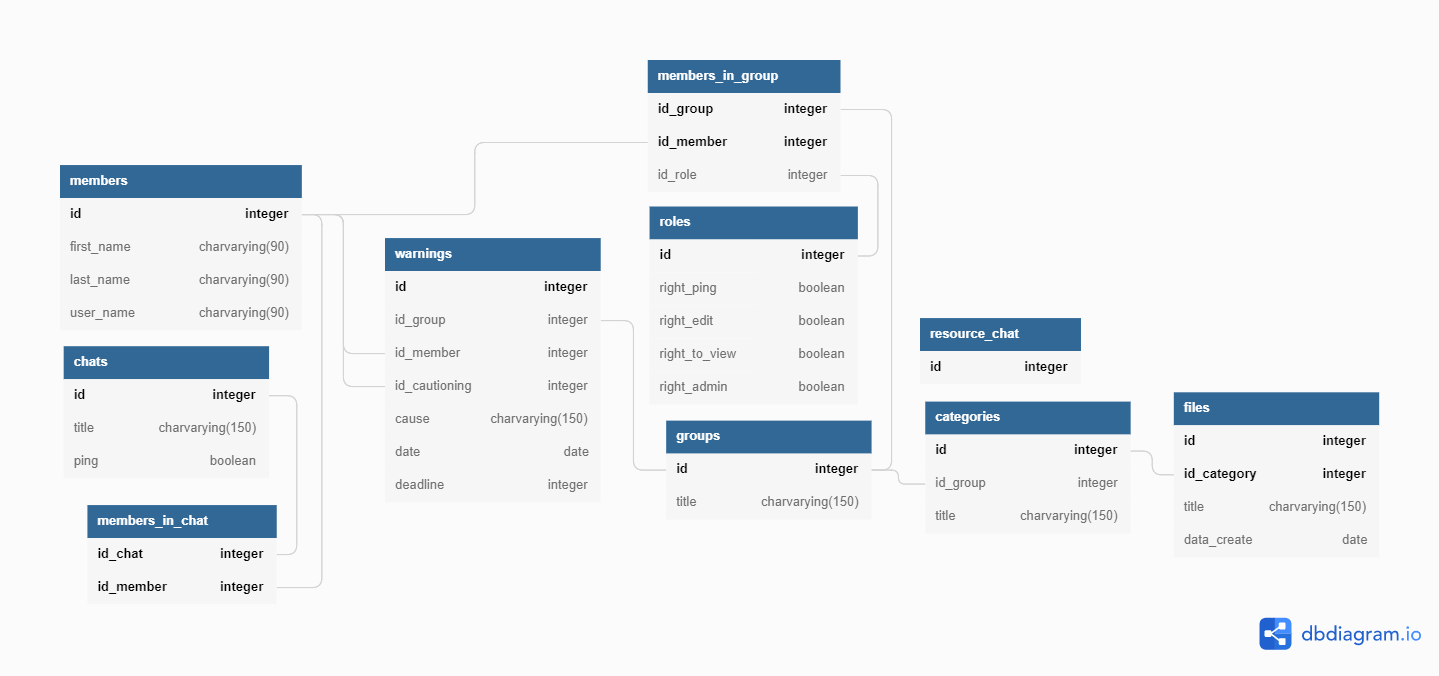
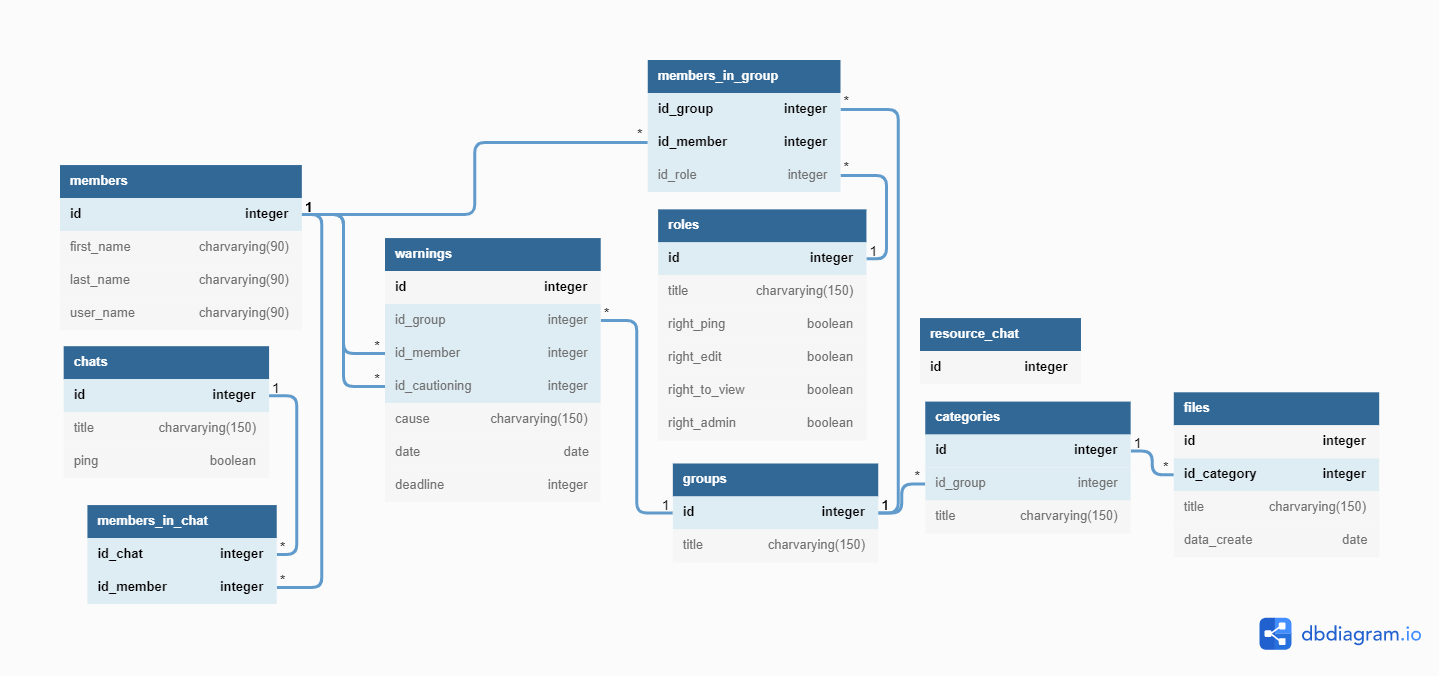
Update role (+title)

diff --git a/src/main/java/repository/dao/GroupDao.java b/src/main/java/repository/dao/GroupDao.java
@@ -18,10 +18,11 @@ public class GroupDao {
         try {
             return Role.builder()
                     .id(resultSet.getInt(1))
-                    .right_ping(resultSet.getBoolean(2))
-                    .right_edit(resultSet.getBoolean(3))
-                    .right_to_view(resultSet.getBoolean(4))
-                    .right_admin(resultSet.getBoolean(5))
+                    .title(resultSet.getString(2))
+                    .right_ping(resultSet.getBoolean(3))
+                    .right_edit(resultSet.getBoolean(4))
+                    .right_to_view(resultSet.getBoolean(5))
+                    .right_admin(resultSet.getBoolean(6))
                     .build();
         } catch (SQLException e) {
             LOGGER.error("Role creation error");
@@ -339,7 +340,7 @@ public class GroupDao {
         ArrayList<Member> result = new ArrayList<>();
         String SQL = """
                 SELECT members.id, first_name, last_name, user_name,
-                id_role, right_to_view, right_ping, right_edit, right_admin,
+                id_role, title, right_to_view, right_ping, right_edit, right_admin,
                     (select count(id)
                     from warnings
                     where members.id = warnings.id_member

diff --git a/src/main/java/repository/dao/MemberDao.java b/src/main/java/repository/dao/MemberDao.java
@@ -40,12 +40,13 @@ public class MemberDao {
                     .user_name(resultSet.getString(4))
                     .role(Role.builder()
                             .id(resultSet.getInt(5))
-                            .right_to_view(resultSet.getBoolean(6))
-                            .right_ping(resultSet.getBoolean(7))
-                            .right_edit(resultSet.getBoolean(8))
-                            .right_admin(resultSet.getBoolean(9))
+                            .title(resultSet.getString(6))
+                            .right_to_view(resultSet.getBoolean(7))
+                            .right_ping(resultSet.getBoolean(8))
+                            .right_edit(resultSet.getBoolean(9))
+                            .right_admin(resultSet.getBoolean(10))
                             .build())
-                    .number_of_warning(resultSet.getInt(10))
+                    .number_of_warning(resultSet.getInt(11))
                     .build();
         }
         catch (SQLException e){

diff --git a/src/main/java/repository/dao/RoleDao.java b/src/main/java/repository/dao/RoleDao.java
@@ -19,10 +19,11 @@ public class RoleDao {
         try {
             return Role.builder()
                     .id(resultSet.getInt(1))
-                    .right_to_view(resultSet.getBoolean(2))
-                    .right_ping(resultSet.getBoolean(3))
-                    .right_edit(resultSet.getBoolean(4))
-                    .right_admin(resultSet.getBoolean(5))
+                    .title(resultSet.getString(2))
+                    .right_to_view(resultSet.getBoolean(3))
+                    .right_ping(resultSet.getBoolean(4))
+                    .right_edit(resultSet.getBoolean(5))
+                    .right_admin(resultSet.getBoolean(6))
                     .build();
         }
         catch (SQLException e){

diff --git a/src/main/java/repository/domain/Role.java b/src/main/java/repository/domain/Role.java
@@ -9,6 +9,7 @@ import lombok.Setter;
 @Setter
 public class Role {
     Integer id;
+    String title;
     Boolean right_to_view;
     Boolean right_ping;
     Boolean right_edit;

diff --git a/readme.md b/readme.md
@@ -66,7 +66,8 @@ https://dbdiagram.io/d/62696c4995e7f23c6184fe24
         title charvarying(150) [NOT NULL]
 
     Роль
-        id integer [pk, increment] 
+        id integer [pk, increment]
+        title charvarying(150) [NOT NULL]
         right_ping boolean [NOT NULL]
         right_edit boolean [NOT NULL]
         right_to_view boolean [NOT NULL]
